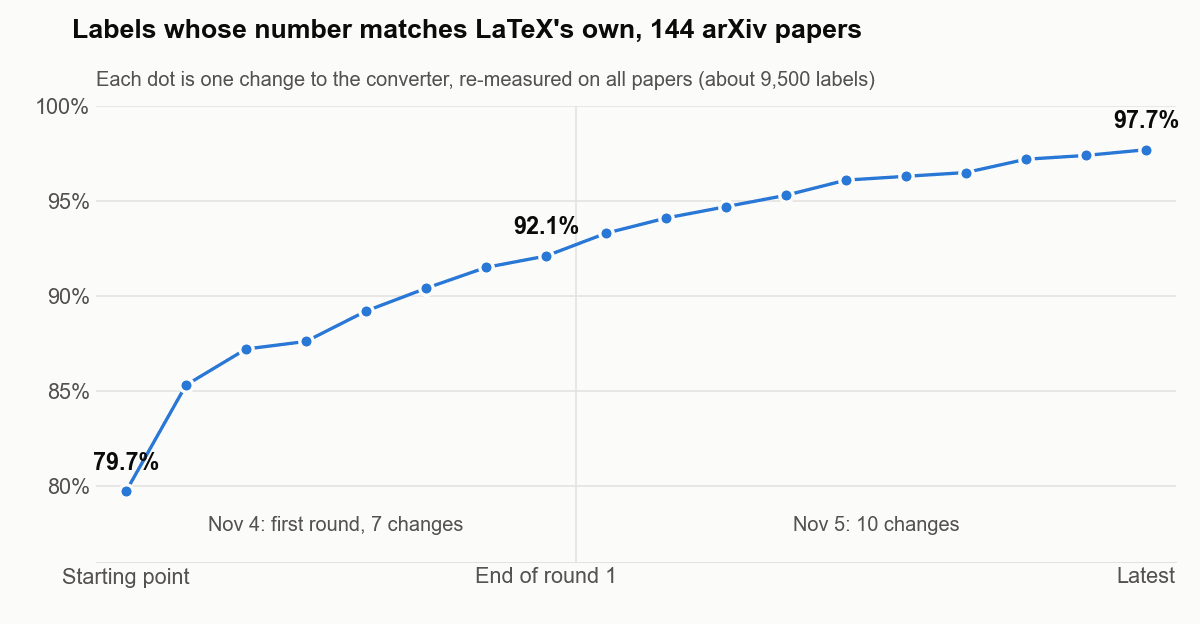
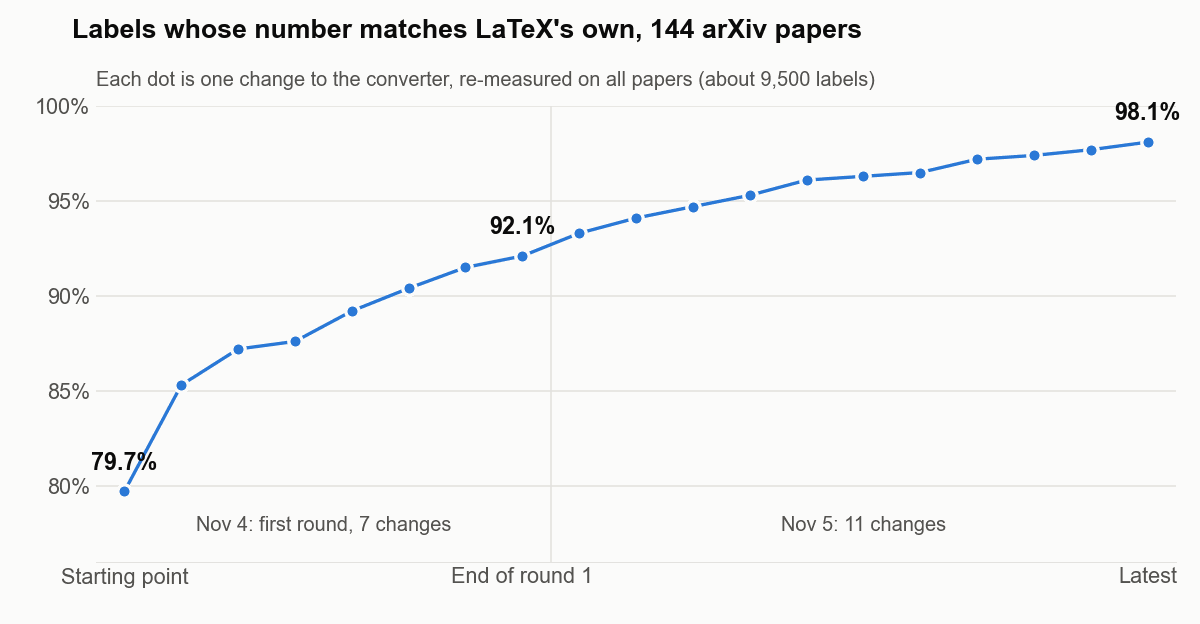
post(r227): log line 12 - sub-figure captions, restated theorems, appendix numbering, 98.1%
Claude-Session: https://claude.ai/code/session_01WtnKZYLqXGfnwQ1eY7a3NB

diff --git a/_posts/2026-11-15-how-equation-numbers-survive-latex-to-word.md b/_posts/2026-11-15-how-equation-numbers-survive-latex-to-word.md
@@ -75,9 +75,10 @@ When we started measuring, 79.7% of the labels came out with LaTeX's number. Sin
 | Nov 5 | A reference right after a theorem or a figure group points at the right one again, lists numbered like (i), (ii) or with text around the number, and a label name used twice resolves the way LaTeX resolves it | 97.2% |
 | Nov 5 | A figure or table with an empty caption still takes its number, and a list that changes its own numbering style before the first item keeps it | 97.4% |
 | Nov 5 | Figure-like blocks that an author defines with their own name keep that name and their own numbers, and text the author switched off in the source is skipped the way LaTeX skips it | 97.7% |
+| Nov 5 | Sub-figure captions written in two more ways, label names built from an author's command, theorems restated later in the paper, and appendix numbering in two journal classes | 98.1% |
 
-![Line chart of the share of labels whose number matches LaTeX's own on 144 arXiv papers. It starts at 79.7%, climbs through 7 changes to 92.1% at the end of the first round on November 4, then through 10 more changes to 97.7% on November 5.](/assets/img/posts/2026-11-15-equation-numbers-latex-to-word/02-progress.png){: width="720" }
-_The same log as a chart. Each dot is one change, re-measured on all 144 papers. Latest (November 5): 97.7% of about 9,500 labels match LaTeX's `.aux`._
+![Line chart of the share of labels whose number matches LaTeX's own on 144 arXiv papers. It starts at 79.7%, climbs through 7 changes to 92.1% at the end of the first round on November 4, then through 11 more changes to 98.1% on November 5.](/assets/img/posts/2026-11-15-equation-numbers-latex-to-word/02-progress.png){: width="720" }
+_The same log as a chart. Each dot is one change, re-measured on all 144 papers. Latest (November 5): 98.1% of about 9,500 labels match LaTeX's `.aux`._
 <!-- log:end -->
 
 The first round was the common machinery. Everything after it is the long tail: constructs that only some papers use, each worth anywhere from a dozen to about a hundred labels across the 144 papers. None of them has needed anything Word can't hold. They need the counting to be read more carefully, one construct at a time.
